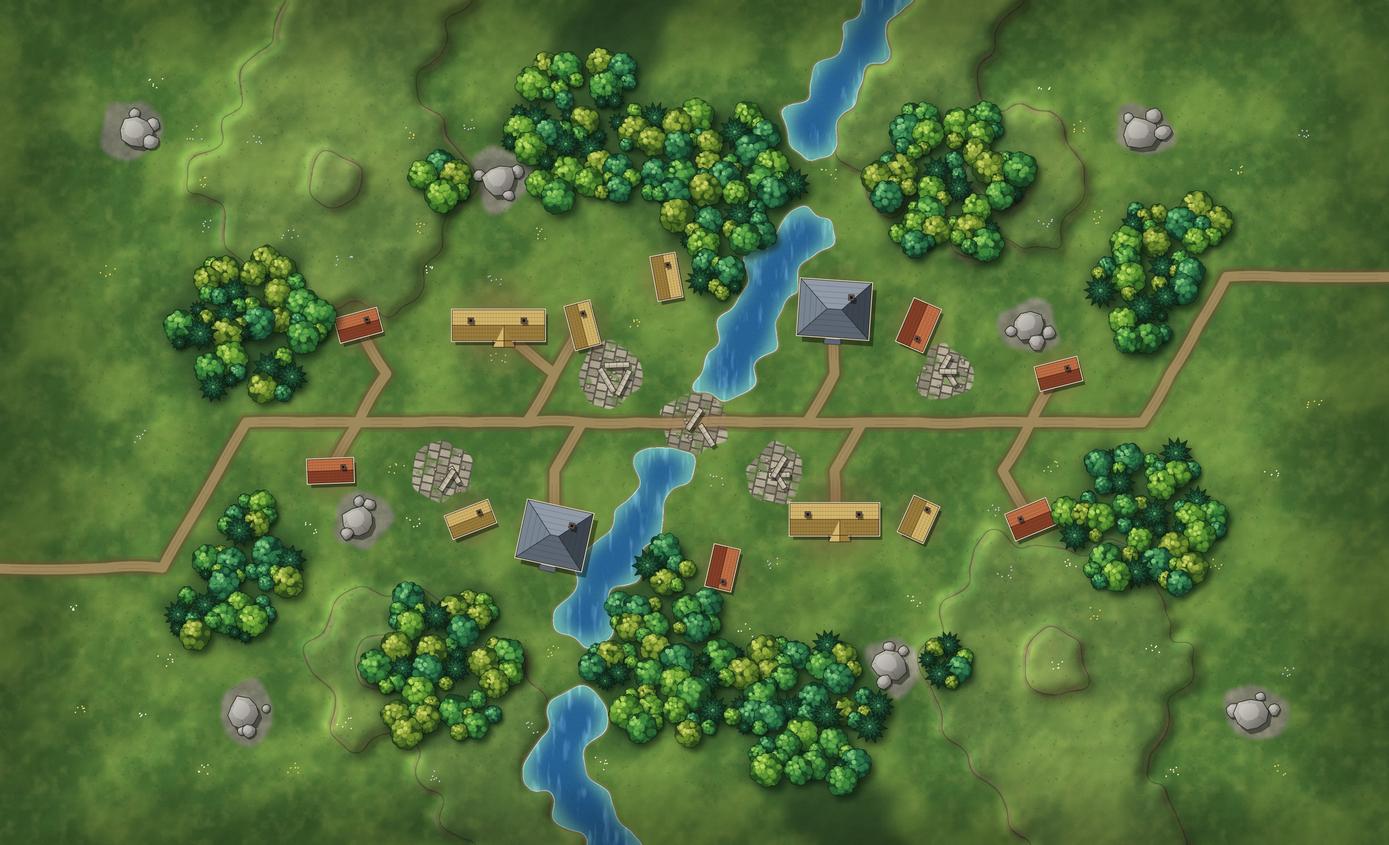
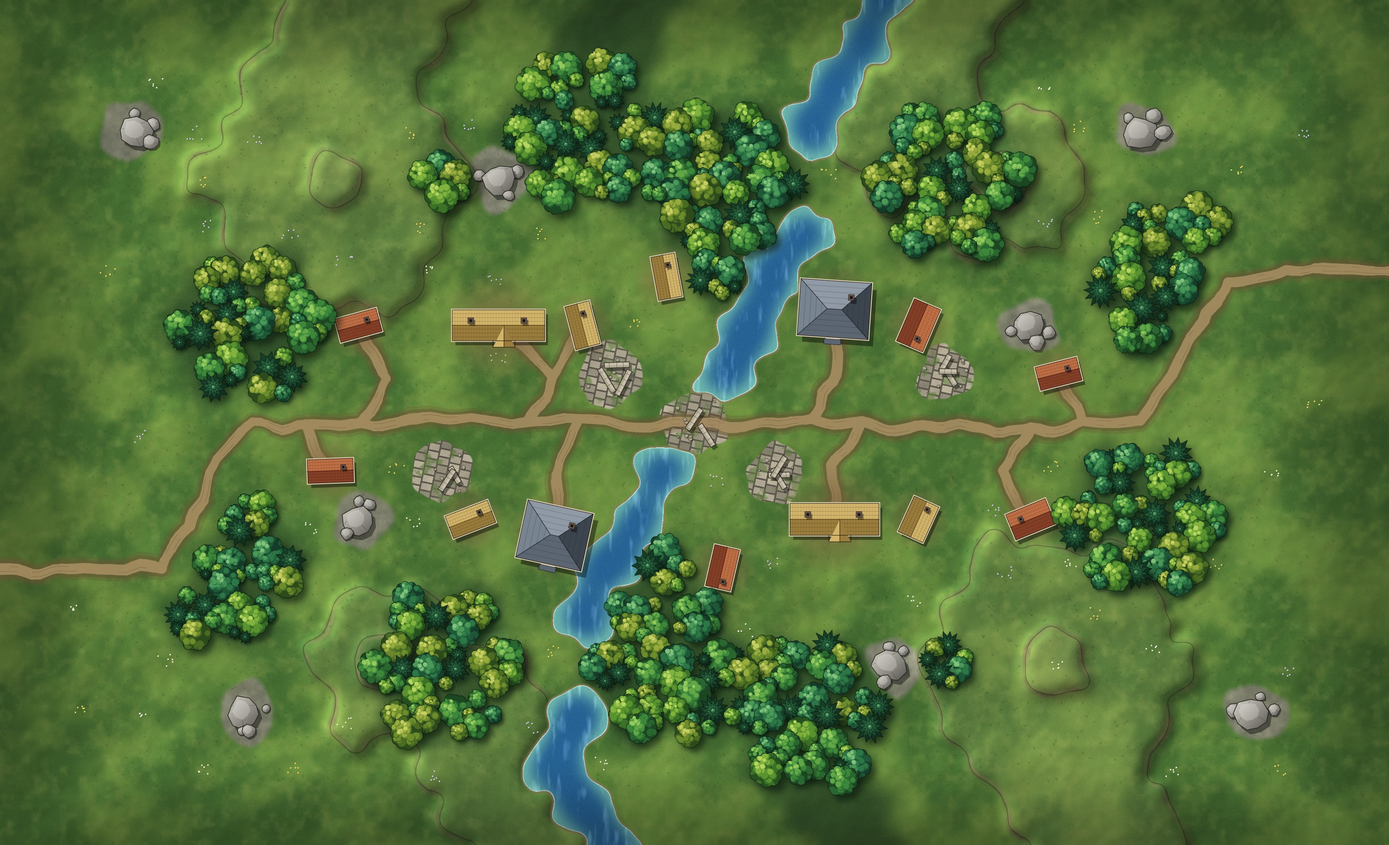
Make roads meander and vary in width

diff --git a/src/paint.js b/src/paint.js
@@ -358,34 +358,45 @@ export function paintBackdrop(map, { hexPx = 140, seed = 7, biome = 'meadow' } =
     edges.sort((x, y) => axisCount[y[2]] - axisCount[x[2]]);
     const kept = new Map(), link = (x, y) => { for (const [p, q] of [[x, y], [y, x]]) { const k = key(p.q, p.r); if (!kept.has(k)) kept.set(k, new Set()); kept.get(k).add(key(q.q, q.r)); } };
     const linked = (x, y) => kept.get(key(x.q, x.r))?.has(key(y.q, y.r));
-    const segs = [];
-    const seg = (x0, y0, x1, y1, id) => {
-      const bend = (hash(Math.round(x0 + x1), Math.round(y0 + y1), seed + 90 + id) - 0.5) * s * 0.22, len = Math.hypot(x1 - x0, y1 - y0) || 1;
-      segs.push([x0, y0, x1, y1, (x0 + x1) / 2 - (y1 - y0) / len * bend, (y0 + y1) / 2 + (x1 - x0) / len * bend]);
+    // An unmade road wanders: it was worn by feet and carts, not surveyed. So the track doesn't run
+    // through the hex centres but through a point nudged off each one, sways between them, and
+    // changes width as it goes — wide and trampled in places, pinched in others.
+    const node = (c) => { const [x, y] = centre(c); return [x + (hash(c.q * 7 + 3, c.r * 13 + 5, seed + 91) - 0.5) * s * 0.42, y + (hash(c.q * 11 + 1, c.r * 17 + 9, seed + 92) - 0.5) * s * 0.42]; };
+    const lines = [];                                                  // each: [[x, y, widthFactor], ...]
+    const seg = (x0, y0, x1, y1) => {
+      const len = Math.hypot(x1 - x0, y1 - y0) || 1, nx = -(y1 - y0) / len, ny = (x1 - x0) / len, n = Math.max(4, Math.round(len / (s * 0.22)));
+      const pts = [];
+      for (let i = 0; i <= n; i++) {
+        const t = i / n, bx = x0 + (x1 - x0) * t, by = y0 + (y1 - y0) * t;
+        const sway = Math.sin(Math.PI * t) * (fbm(bx / (s * 1.1), by / (s * 1.1), seed + 93, 2) - 0.5) * s * 0.55;
+        const x = bx + nx * sway, y = by + ny * sway;
+        pts.push([x, y, 0.72 + 0.62 * fbm(x / (s * 0.75), y / (s * 0.75), seed + 94, 2)]);
+      }
+      lines.push(pts);
     };
     for (const [x, y] of edges) {
       if (roads.some((z) => z !== x && z !== y && linked(x, z) && linked(z, y))) continue;       // would close a triangle
       link(x, y);
-      seg(...centre(x), ...centre(y), 0);
+      seg(...node(x), ...node(y));
     }
     for (const c of roads) {                                           // onto a bridge
       for (const [dq, dr] of N) {
         const n = map.cells[key(c.q + dq, c.r + dr)];
-        if (n?.t === 'ruins' && N.some(([aq, ar]) => map.cells[key(n.q + aq, n.r + ar)]?.t === 'water')) seg(...centre(c), ...centre(n), 1);
+        if (n?.t === 'ruins' && N.some(([aq, ar]) => map.cells[key(n.q + aq, n.r + ar)]?.t === 'water')) seg(...node(c), ...centre(n));
       }
-      if (!kept.has(key(c.q, c.r))) { const [x, y] = centre(c); segs.push([x, y, x + 0.01, y, x, y]); }      // a lone road hex
+      if (!kept.has(key(c.q, c.r))) { const [x, y] = node(c); seg(x, y, x + 0.5, y); }                // a lone road hex
     }
     for (const c of roads) {                                           // a road that ends on the board's edge carries on off the map
       const links = kept.get(key(c.q, c.r));
       if (!links || links.size !== 1) continue;
-      const [x, y] = centre(c), [lq, lr] = [...links][0].split(',').map(Number), [fx, fy] = centre({ q: lq, r: lr });
+      const [x, y] = node(c), [lq, lr] = [...links][0].split(',').map(Number), [fx, fy] = centre({ q: lq, r: lr }), [hx, hy] = centre(c);
       let best = null, bestDot = 0.2;
       for (const [dq, dr] of N) {
         if (map.cells[key(c.q + dq, c.r + dr)]) continue;             // only toward hexes that aren't there
-        const [ox, oy] = centre({ q: c.q + dq, r: c.r + dr }), dot = ((ox - x) * (x - fx) + (oy - y) * (y - fy)) / (Math.hypot(ox - x, oy - y) * Math.hypot(x - fx, y - fy));
-        if (dot > bestDot) { bestDot = dot; best = [ox - x, oy - y]; }
+        const [ox, oy] = centre({ q: c.q + dq, r: c.r + dr }), dot = ((ox - hx) * (hx - fx) + (oy - hy) * (hy - fy)) / (Math.hypot(ox - hx, oy - hy) * Math.hypot(hx - fx, hy - fy));
+        if (dot > bestDot) { bestDot = dot; best = [ox - hx, oy - hy]; }
       }
-      if (best) seg(x, y, x + best[0] * 2.2, y + best[1] * 2.2, 3);
+      if (best) seg(x, y, x + best[0] * 2.2, y + best[1] * 2.2);
     }
     for (const bld of buildings(sorted)) {                             // one path to each building, from the nearest road hex
       let bx = 0, by = 0;
@@ -393,26 +404,40 @@ export function paintBackdrop(map, { hexPx = 140, seed = 7, biome = 'meadow' } =
       let best = null, bestD = Infinity;
       for (const c of bld.cells) for (const [dq, dr] of N) {
         if (!isRoad(c.q + dq, c.r + dr)) continue;
-        const [x, y] = centre(map.cells[key(c.q + dq, c.r + dr)]), dd = Math.hypot(x - bx, y - by);
+        const [x, y] = node(map.cells[key(c.q + dq, c.r + dr)]), dd = Math.hypot(x - bx, y - by);
         if (dd < bestD) { bestD = dd; best = [x, y]; }
       }
-      if (best) seg(best[0], best[1], bx, by, 2);
+      if (best) seg(best[0], best[1], bx, by);
     }
-    const dirt = snow ? ['rgba(150,160,176,', 'rgba(196,204,216,'] : desert ? ['rgba(168,132,90,', 'rgba(232,206,160,'] : cave ? ['rgba(48,44,42,', 'rgba(104,96,88,'] : ['rgba(104,84,52,', 'rgba(176,148,104,'];
-    for (const [col, width, alpha] of [[dirt[0], 0.62, 0.3], [dirt[0], 0.46, 0.5], [dirt[1], 0.3, 0.75]]) {
-      ctx.strokeStyle = col + alpha + ')'; ctx.lineWidth = s * width;
-      // One path for the whole network: stroked together, overlapping ends at a joint don't add up into dark blobs.
-      ctx.beginPath();
-      for (const [x0, y0, x1, y1, mx, my] of segs) { ctx.moveTo(x0, y0); ctx.quadraticCurveTo(mx, my, x1, y1); }
-      ctx.stroke();
+    const dirt = snow ? ['150,160,176', '196,204,216'] : desert ? ['168,132,90', '232,206,160'] : cave ? ['48,44,42', '104,96,88'] : ['104,84,52', '176,148,104'];
+    // Each layer is drawn solid on a spare canvas (short pieces of differing width), then laid over
+    // the ground at its own strength — so pieces overlapping at a joint don't show as darker blobs.
+    const spare = document.createElement('canvas');
+    spare.width = W; spare.height = H;
+    const sc = spare.getContext('2d');
+    sc.lineCap = 'round'; sc.lineJoin = 'round';
+    for (const [col, width, alpha] of [[dirt[0], 0.66, 0.28], [dirt[0], 0.48, 0.5], [dirt[1], 0.3, 0.78]]) {
+      sc.clearRect(0, 0, W, H);
+      sc.strokeStyle = 'rgb(' + col + ')';
+      for (const pts of lines) for (let i = 1; i < pts.length; i++) {
+        sc.lineWidth = s * width * (pts[i - 1][2] + pts[i][2]) / 2;
+        sc.beginPath(); sc.moveTo(pts[i - 1][0], pts[i - 1][1]); sc.lineTo(pts[i][0], pts[i][1]); sc.stroke();
+      }
+      ctx.globalAlpha = alpha; ctx.drawImage(spare, 0, 0); ctx.globalAlpha = 1;
     }
-    ctx.strokeStyle = 'rgba(40,28,14,0.22)'; ctx.lineWidth = 1.2;                                     // cart ruts
-    ctx.beginPath();                                   // ruts run along the middle of each stretch and fade out before the joints
-    for (const [x0, y0, x1, y1, mx, my] of segs) for (const off of [-0.07, 0.07]) {
-      const nx = -(y1 - y0), ny = x1 - x0, nl = Math.hypot(nx, ny) || 1, ox = nx / nl * s * off, oy = ny / nl * s * off;
-      const at = (t) => [(1 - t) * (1 - t) * x0 + 2 * (1 - t) * t * mx + t * t * x1 + ox, (1 - t) * (1 - t) * y0 + 2 * (1 - t) * t * my + t * t * y1 + oy];
-      const [ax, ay] = at(0.22), [bx, by] = at(0.5), [cx2, cy2] = at(0.78);
-      ctx.moveTo(ax, ay); ctx.quadraticCurveTo(2 * bx - (ax + cx2) / 2, 2 * by - (ay + cy2) / 2, cx2, cy2);
+    // Cart ruts: two faint lines that follow the track, broken here and there, and gone near the joints.
+    ctx.strokeStyle = 'rgba(40,28,14,0.24)'; ctx.lineWidth = 1.2;
+    ctx.beginPath();
+    for (const pts of lines) for (const off of [-0.075, 0.075]) {
+      let pen = false;
+      for (let i = 1; i < pts.length - 1; i++) {
+        const [x0, y0] = pts[i - 1], [x1, y1] = pts[i + 1], l = Math.hypot(x1 - x0, y1 - y0) || 1;
+        const x = pts[i][0] - (y1 - y0) / l * s * off, y = pts[i][1] + (x1 - x0) / l * s * off;
+        const gap = hash(Math.round(x), Math.round(y), seed + 97) < 0.18 || i < 2 || i > pts.length - 3;
+        if (gap) { pen = false; continue; }
+        if (pen) ctx.lineTo(x, y); else ctx.moveTo(x, y);
+        pen = true;
+      }
     }
     ctx.stroke();
   }
